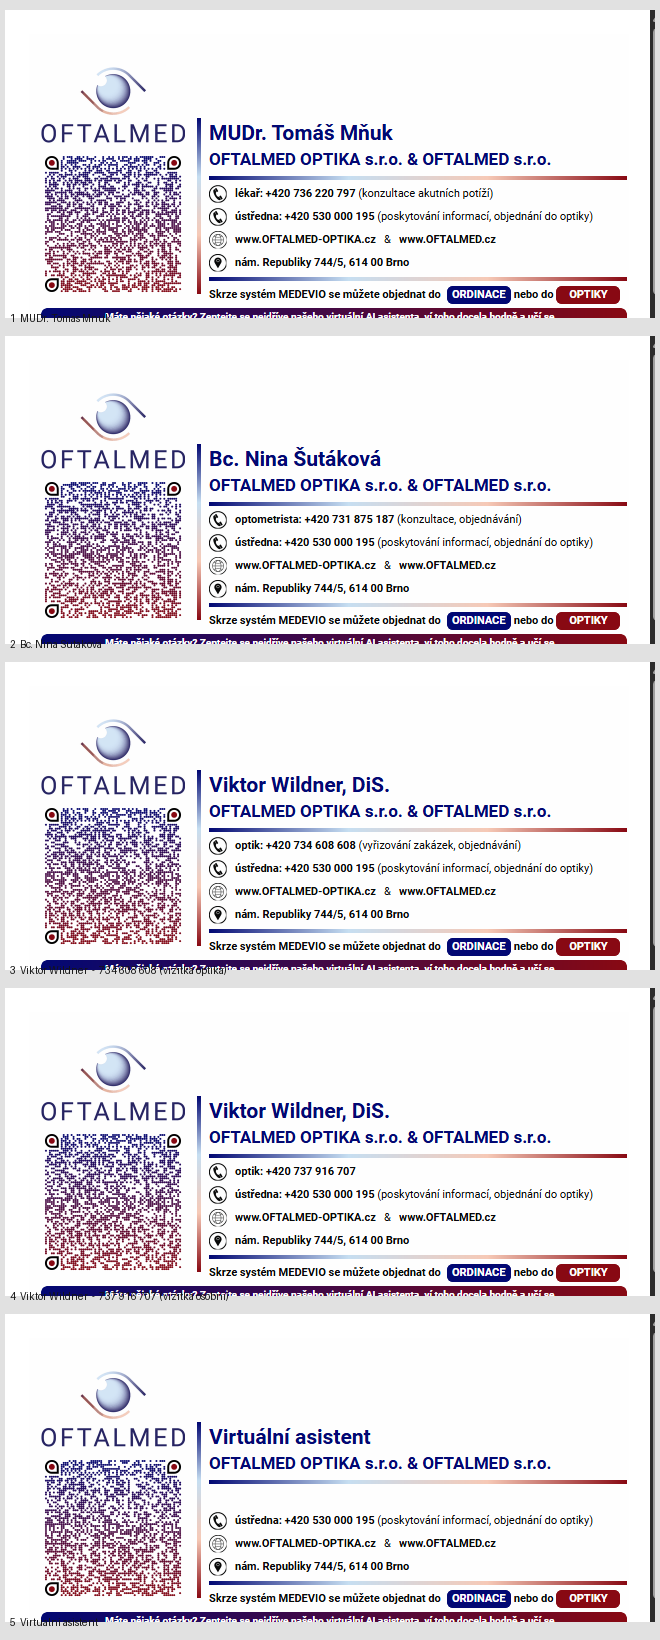
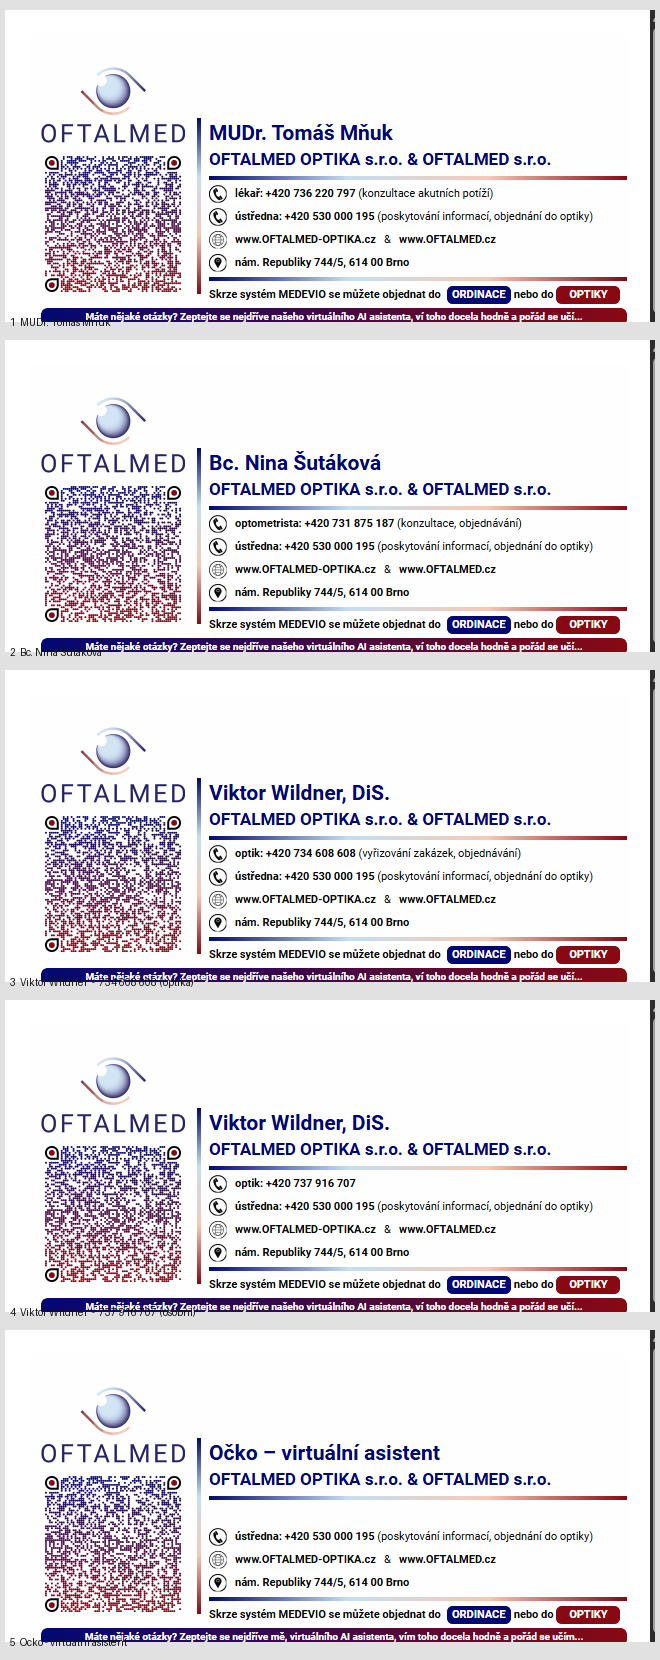
Textove zmeny z Canvy: Ocko, prvni osoba a "porad se uci"
- spodni pruh: "vi toho docela hodne a porad se uci..."
- virtualni asistent se jmenuje "Ocko - virtualni asistent"
- Ockuv vlastni podpis mluvi v prvni osobe ("zeptejte se nejdrive me...,
  vim toho docela hodne a porad se ucim..."), proto ma build.py
  TEXT_PRUH_ASISTENT vedle spolecneho TEXT_PRUH

Overeno, ze oba delsi texty se do pruhu vejdou (498 a 499 px z 586).

diff --git a/asistent/index.html b/asistent/index.html
@@ -1,17 +1,17 @@
-<!DOCTYPE html><html lang="cs"><head><meta charset="utf-8"><title>Podpis - Virtuální asistent</title></head><body style="margin:0;padding:24px;background:#ffffff;"><table role="presentation" width="600" cellpadding="0" cellspacing="0" border="0" style="width:600px;max-width:600px;border-collapse:collapse;background-color:#fefefe;font-family:Roboto,'Helvetica Neue',Arial,Helvetica,sans-serif;color:#070808;">
+<!DOCTYPE html><html lang="cs"><head><meta charset="utf-8"><title>Podpis - Očko – virtuální asistent</title></head><body style="margin:0;padding:24px;background:#ffffff;"><table role="presentation" width="600" cellpadding="0" cellspacing="0" border="0" style="width:600px;max-width:600px;border-collapse:collapse;background-color:#fefefe;font-family:Roboto,'Helvetica Neue',Arial,Helvetica,sans-serif;color:#070808;">
   <tr>
     <!-- LEVY SLOUPEC: logo + QR -->
     <td width="168" valign="top" style="width:168px;padding:28px 12px 0 12px;">
       <img src="https://oftalmed.github.io/podpis/obrazky/podpis-logo.png" width="144" height="81" alt="OFTALMED" border="0" style="display:block;border:0;outline:none;text-decoration:none;width:144px;height:81px;">
       <div style="height:9px;line-height:9px;font-size:0;">&nbsp;</div>
-      <img src="https://oftalmed.github.io/podpis/obrazky/podpis-qr-asistent.png" width="144" height="144" alt="QR kontakt Virtuální asistent" border="0" style="display:block;border:0;outline:none;text-decoration:none;width:144px;height:144px;">
+      <img src="https://oftalmed.github.io/podpis/obrazky/podpis-qr-asistent.png" width="144" height="144" alt="QR kontakt Očko – virtuální asistent" border="0" style="display:block;border:0;outline:none;text-decoration:none;width:144px;height:144px;">
     </td>
     <!-- SVISLA DELICI LINKA -->
     <td width="4" valign="top" style="width:4px;padding:84px 0 0 0;"><img src="https://oftalmed.github.io/podpis/obrazky/podpis-linka-v.png" width="4" height="176" alt="" border="0" style="display:block;border:0;outline:none;text-decoration:none;width:4px;height:176px;"></td>
     <!-- PRAVY SLOUPEC -->
     <td valign="top" style="padding:84px 2px 0 8px;">
       <table role="presentation" width="418" cellpadding="0" cellspacing="0" border="0" style="width:418px;border-collapse:collapse;">
-        <tr><td style="font-family:Roboto,'Helvetica Neue',Arial,Helvetica,sans-serif;font-size:21px;font-weight:bold;line-height:29px;color:#020873;white-space:nowrap;">Virtuální asistent</td></tr>
+        <tr><td style="font-family:Roboto,'Helvetica Neue',Arial,Helvetica,sans-serif;font-size:21px;font-weight:bold;line-height:29px;color:#020873;white-space:nowrap;">Očko – virtuální asistent</td></tr>
         <tr><td style="font-family:Roboto,'Helvetica Neue',Arial,Helvetica,sans-serif;font-size:17px;font-weight:bold;line-height:24px;color:#020873;padding-bottom:5px;">OFTALMED OPTIKA s.r.o. &amp; OFTALMED s.r.o.</td></tr>
         <tr><td style="font-size:0;line-height:0;padding-bottom:5px;"><img src="https://oftalmed.github.io/podpis/obrazky/podpis-linka-h.png" width="418" height="4" alt="" border="0" style="display:block;border:0;outline:none;text-decoration:none;width:418px;height:4px;"></td></tr>
         <tr><td>
@@ -51,7 +51,7 @@
       <table role="presentation" width="586" cellpadding="0" cellspacing="0" border="0" style="width:586px;border-collapse:collapse;">
         <tr>
           <td height="18" align="center" background="https://oftalmed.github.io/podpis/obrazky/podpis-pruh.png" bgcolor="#450843" style="height:18px;border-radius:6px;background-color:#450843;background-image:url('https://oftalmed.github.io/podpis/obrazky/podpis-pruh.png');background-repeat:no-repeat;background-size:586px 18px;padding:0 8px;font-family:Roboto,'Helvetica Neue',Arial,Helvetica,sans-serif;font-size:10px;font-weight:bold;line-height:18px;color:#ffffff;white-space:nowrap;">
-            <a href="https://oftalmed-optika.cz/chatbot/" style="color:#ffffff;text-decoration:none;">Máte nějaké otázky? Zeptejte se nejdříve našeho virtuálního AI asistenta, ví toho docela hodně a učí se...</a>
+            <a href="https://oftalmed-optika.cz/chatbot/" style="color:#ffffff;text-decoration:none;">Máte nějaké otázky? Zeptejte se nejdříve mě, virtuálního AI asistenta, vím toho docela hodně a pořád se učím...</a>
           </td>
         </tr>
       </table>

diff --git a/test/index.html b/test/index.html
@@ -2,4 +2,4 @@
   <div style="display:inline-block;margin:0 18px 18px 0;text-align:center;vertical-align:top;"><img src="https://oftalmed.github.io/podpis/obrazky/podpis-qr-sutakova.png" width="144" height="144" alt="QR Bc. Nina Šutáková" border="0" style="display:inline-block;border:0;outline:none;text-decoration:none;width:144px;height:144px;"><div style="font-family:Roboto,'Helvetica Neue',Arial,Helvetica,sans-serif;font-size:12px;color:#070808;margin-top:6px;">Bc. Nina Šutáková</div><div style="font-family:Roboto,'Helvetica Neue',Arial,Helvetica,sans-serif;font-size:11px;color:#666;">+420 731 875 187</div></div>
   <div style="display:inline-block;margin:0 18px 18px 0;text-align:center;vertical-align:top;"><img src="https://oftalmed.github.io/podpis/obrazky/podpis-qr-wildner.png" width="144" height="144" alt="QR Viktor Wildner, DiS." border="0" style="display:inline-block;border:0;outline:none;text-decoration:none;width:144px;height:144px;"><div style="font-family:Roboto,'Helvetica Neue',Arial,Helvetica,sans-serif;font-size:12px;color:#070808;margin-top:6px;">Viktor Wildner, DiS.</div><div style="font-family:Roboto,'Helvetica Neue',Arial,Helvetica,sans-serif;font-size:11px;color:#666;">+420 734 608 608</div></div>
   <div style="display:inline-block;margin:0 18px 18px 0;text-align:center;vertical-align:top;"><img src="https://oftalmed.github.io/podpis/obrazky/podpis-qr-wildner-2.png" width="144" height="144" alt="QR Viktor Wildner, DiS." border="0" style="display:inline-block;border:0;outline:none;text-decoration:none;width:144px;height:144px;"><div style="font-family:Roboto,'Helvetica Neue',Arial,Helvetica,sans-serif;font-size:12px;color:#070808;margin-top:6px;">Viktor Wildner, DiS.</div><div style="font-family:Roboto,'Helvetica Neue',Arial,Helvetica,sans-serif;font-size:11px;color:#666;">+420 737 916 707</div></div>
-  <div style="display:inline-block;margin:0 18px 18px 0;text-align:center;vertical-align:top;"><img src="https://oftalmed.github.io/podpis/obrazky/podpis-qr-asistent.png" width="144" height="144" alt="QR Virtuální asistent" border="0" style="display:inline-block;border:0;outline:none;text-decoration:none;width:144px;height:144px;"><div style="font-family:Roboto,'Helvetica Neue',Arial,Helvetica,sans-serif;font-size:12px;color:#070808;margin-top:6px;">Virtuální asistent</div><div style="font-family:Roboto,'Helvetica Neue',Arial,Helvetica,sans-serif;font-size:11px;color:#666;">bez osobního čísla</div></div></div></body></html>
+  <div style="display:inline-block;margin:0 18px 18px 0;text-align:center;vertical-align:top;"><img src="https://oftalmed.github.io/podpis/obrazky/podpis-qr-asistent.png" width="144" height="144" alt="QR Očko – virtuální asistent" border="0" style="display:inline-block;border:0;outline:none;text-decoration:none;width:144px;height:144px;"><div style="font-family:Roboto,'Helvetica Neue',Arial,Helvetica,sans-serif;font-size:12px;color:#070808;margin-top:6px;">Očko – virtuální asistent</div><div style="font-family:Roboto,'Helvetica Neue',Arial,Helvetica,sans-serif;font-size:11px;color:#666;">bez osobního čísla</div></div></div></body></html>

diff --git a/mnuk/index.html b/mnuk/index.html
@@ -54,7 +54,7 @@
       <table role="presentation" width="586" cellpadding="0" cellspacing="0" border="0" style="width:586px;border-collapse:collapse;">
         <tr>
           <td height="18" align="center" background="https://oftalmed.github.io/podpis/obrazky/podpis-pruh.png" bgcolor="#450843" style="height:18px;border-radius:6px;background-color:#450843;background-image:url('https://oftalmed.github.io/podpis/obrazky/podpis-pruh.png');background-repeat:no-repeat;background-size:586px 18px;padding:0 8px;font-family:Roboto,'Helvetica Neue',Arial,Helvetica,sans-serif;font-size:10px;font-weight:bold;line-height:18px;color:#ffffff;white-space:nowrap;">
-            <a href="https://oftalmed-optika.cz/chatbot/" style="color:#ffffff;text-decoration:none;">Máte nějaké otázky? Zeptejte se nejdříve našeho virtuálního AI asistenta, ví toho docela hodně a učí se...</a>
+            <a href="https://oftalmed-optika.cz/chatbot/" style="color:#ffffff;text-decoration:none;">Máte nějaké otázky? Zeptejte se nejdříve našeho virtuálního AI asistenta, ví toho docela hodně a pořád se učí...</a>
           </td>
         </tr>
       </table>

diff --git a/sutakova/index.html b/sutakova/index.html
@@ -54,7 +54,7 @@
       <table role="presentation" width="586" cellpadding="0" cellspacing="0" border="0" style="width:586px;border-collapse:collapse;">
         <tr>
           <td height="18" align="center" background="https://oftalmed.github.io/podpis/obrazky/podpis-pruh.png" bgcolor="#450843" style="height:18px;border-radius:6px;background-color:#450843;background-image:url('https://oftalmed.github.io/podpis/obrazky/podpis-pruh.png');background-repeat:no-repeat;background-size:586px 18px;padding:0 8px;font-family:Roboto,'Helvetica Neue',Arial,Helvetica,sans-serif;font-size:10px;font-weight:bold;line-height:18px;color:#ffffff;white-space:nowrap;">
-            <a href="https://oftalmed-optika.cz/chatbot/" style="color:#ffffff;text-decoration:none;">Máte nějaké otázky? Zeptejte se nejdříve našeho virtuálního AI asistenta, ví toho docela hodně a učí se...</a>
+            <a href="https://oftalmed-optika.cz/chatbot/" style="color:#ffffff;text-decoration:none;">Máte nějaké otázky? Zeptejte se nejdříve našeho virtuálního AI asistenta, ví toho docela hodně a pořád se učí...</a>
           </td>
         </tr>
       </table>

diff --git a/wildner-2/index.html b/wildner-2/index.html
@@ -54,7 +54,7 @@
       <table role="presentation" width="586" cellpadding="0" cellspacing="0" border="0" style="width:586px;border-collapse:collapse;">
         <tr>
           <td height="18" align="center" background="https://oftalmed.github.io/podpis/obrazky/podpis-pruh.png" bgcolor="#450843" style="height:18px;border-radius:6px;background-color:#450843;background-image:url('https://oftalmed.github.io/podpis/obrazky/podpis-pruh.png');background-repeat:no-repeat;background-size:586px 18px;padding:0 8px;font-family:Roboto,'Helvetica Neue',Arial,Helvetica,sans-serif;font-size:10px;font-weight:bold;line-height:18px;color:#ffffff;white-space:nowrap;">
-            <a href="https://oftalmed-optika.cz/chatbot/" style="color:#ffffff;text-decoration:none;">Máte nějaké otázky? Zeptejte se nejdříve našeho virtuálního AI asistenta, ví toho docela hodně a učí se...</a>
+            <a href="https://oftalmed-optika.cz/chatbot/" style="color:#ffffff;text-decoration:none;">Máte nějaké otázky? Zeptejte se nejdříve našeho virtuálního AI asistenta, ví toho docela hodně a pořád se učí...</a>
           </td>
         </tr>
       </table>

diff --git a/wildner/index.html b/wildner/index.html
@@ -54,7 +54,7 @@
       <table role="presentation" width="586" cellpadding="0" cellspacing="0" border="0" style="width:586px;border-collapse:collapse;">
         <tr>
           <td height="18" align="center" background="https://oftalmed.github.io/podpis/obrazky/podpis-pruh.png" bgcolor="#450843" style="height:18px;border-radius:6px;background-color:#450843;background-image:url('https://oftalmed.github.io/podpis/obrazky/podpis-pruh.png');background-repeat:no-repeat;background-size:586px 18px;padding:0 8px;font-family:Roboto,'Helvetica Neue',Arial,Helvetica,sans-serif;font-size:10px;font-weight:bold;line-height:18px;color:#ffffff;white-space:nowrap;">
-            <a href="https://oftalmed-optika.cz/chatbot/" style="color:#ffffff;text-decoration:none;">Máte nějaké otázky? Zeptejte se nejdříve našeho virtuálního AI asistenta, ví toho docela hodně a učí se...</a>
+            <a href="https://oftalmed-optika.cz/chatbot/" style="color:#ffffff;text-decoration:none;">Máte nějaké otázky? Zeptejte se nejdříve našeho virtuálního AI asistenta, ví toho docela hodně a pořád se učí...</a>
           </td>
         </tr>
       </table>

diff --git a/index.html b/index.html
@@ -3,5 +3,5 @@
         <li style="margin:0 0 10px 0;"><a href="sutakova/" style="color:#020873;font-weight:bold;text-decoration:none;">Bc. Nina Šutáková</a></li>
         <li style="margin:0 0 10px 0;"><a href="wildner/" style="color:#020873;font-weight:bold;text-decoration:none;">Viktor Wildner, DiS.</a></li>
         <li style="margin:0 0 10px 0;"><a href="wildner-2/" style="color:#020873;font-weight:bold;text-decoration:none;">Viktor Wildner, DiS.</a></li>
-        <li style="margin:0 0 10px 0;"><a href="asistent/" style="color:#020873;font-weight:bold;text-decoration:none;">Virtuální asistent</a></li>
+        <li style="margin:0 0 10px 0;"><a href="asistent/" style="color:#020873;font-weight:bold;text-decoration:none;">Očko – virtuální asistent</a></li>
       </ul></div></body></html>

diff --git a/_zdroj/build.py b/_zdroj/build.py
@@ -23,7 +23,11 @@ URL_MAPA = ("https://www.google.com/maps/place/OFTALMED+OPTIKA+s.r.o./@49.211027
             "!4d16.633001!16s%2Fg%2F11n2v0hw4p?authuser=0&amp;entry=ttu")
 
 TEXT_PRUH = ("Máte nějaké otázky? Zeptejte se nejdříve našeho virtuálního AI asistenta, "
-             "ví toho docela hodně a učí se...")
+             "ví toho docela hodně a pořád se učí...")
+
+# Očko mluví ve vlastním podpisu v první osobě
+TEXT_PRUH_ASISTENT = ("Máte nějaké otázky? Zeptejte se nejdříve mě, virtuálního AI asistenta, "
+                      "vím toho docela hodně a pořád se učím...")
 
 # slug, jméno, (popisek osobního čísla, číslo, poznámka v závorce) nebo None
 #
@@ -39,7 +43,7 @@ LIDE = [
     ("sutakova",  "Bc. Nina Šutáková",    ("optometrista", "+420 731 875 187", "(konzultace, objednávání)")),
     ("wildner",   "Viktor Wildner, DiS.", ("optik",        "+420 734 608 608", "(vyřizování zakázek, objednávání)")),
     ("wildner-2", "Viktor Wildner, DiS.", ("optik",        "+420 737 916 707", "")),
-    ("asistent",  "Virtuální asistent",   None),
+    ("asistent",  "Očko – virtuální asistent", None),
 ]
 
 ODKAZ_V_TEXTU = "color:" + TEXT + ";text-decoration:none;"
@@ -127,7 +131,7 @@ SABLONA = """<table role="presentation" width="600" cellpadding="0" cellspacing=
 </table>"""
 
 
-def sestav(base, jmeno, osobni, qr):
+def sestav(base, jmeno, osobni, qr, pruh=TEXT_PRUH):
     A = ODKAZ_V_TEXTU
     if osobni:
         popis, cislo, pozn = osobni
@@ -153,7 +157,7 @@ def sestav(base, jmeno, osobni, qr):
 
     return SABLONA.format(
         PODKLAD=PODKLAD, FONT=FONT, TEXT=TEXT, MODRA=MODRA, RADIUS=RADIUS,
-        PRUH_NAHRADA=PRUH_NAHRADA, URL_CHATBOT=URL_CHATBOT, TEXT_PRUH=TEXT_PRUH,
+        PRUH_NAHRADA=PRUH_NAHRADA, URL_CHATBOT=URL_CHATBOT, TEXT_PRUH=pruh,
         JMENO=jmeno, RADKY=radky,
         LOGO=img(base, 'podpis-logo.png', 144, 81, 'OFTALMED'),
         QR=img(base, qr, 144, 144, 'QR kontakt ' + jmeno),
@@ -184,7 +188,9 @@ for slug, jmeno, osobni in LIDE:
     # Obrázky se tahají z WEB, takže soubor vypadá stejně otevřený lokálně i z Pages —
     # samostatná náhledová verze s relativními cestami už neexistuje, jen mátla.
     qr = 'podpis-qr-' + slug + '.png'
-    zapis(slug + '/index.html', stranka(sestav(WEB, jmeno, osobni, qr), 'Podpis - ' + jmeno))
+    pruh = TEXT_PRUH_ASISTENT if slug == 'asistent' else TEXT_PRUH
+    zapis(slug + '/index.html',
+          stranka(sestav(WEB, jmeno, osobni, qr, pruh), 'Podpis - ' + jmeno))
     print('{:11s} {}'.format(slug, jmeno))
 
 polozky = '\n'.join(
